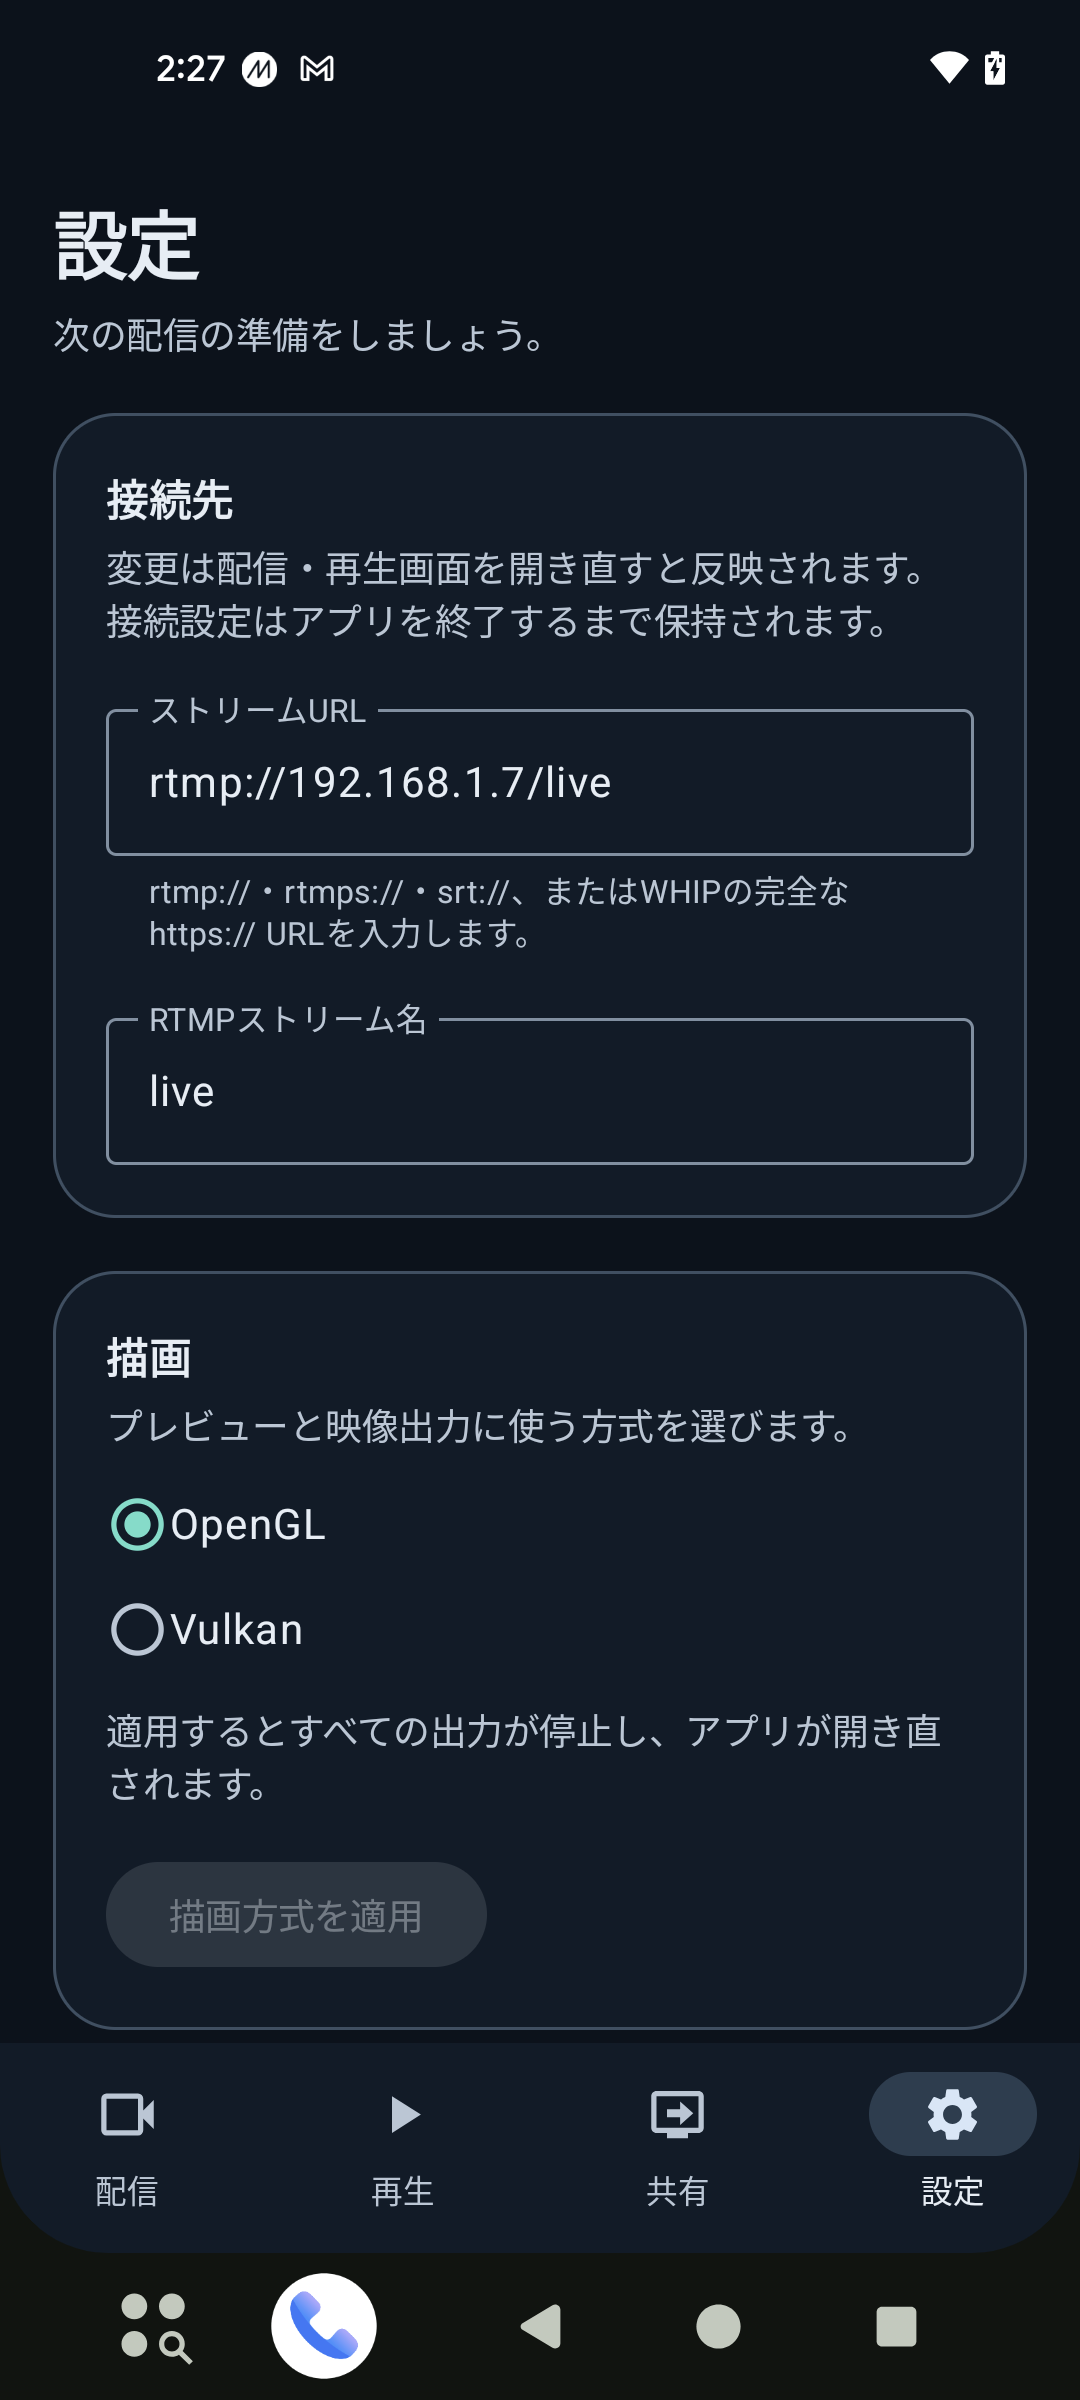
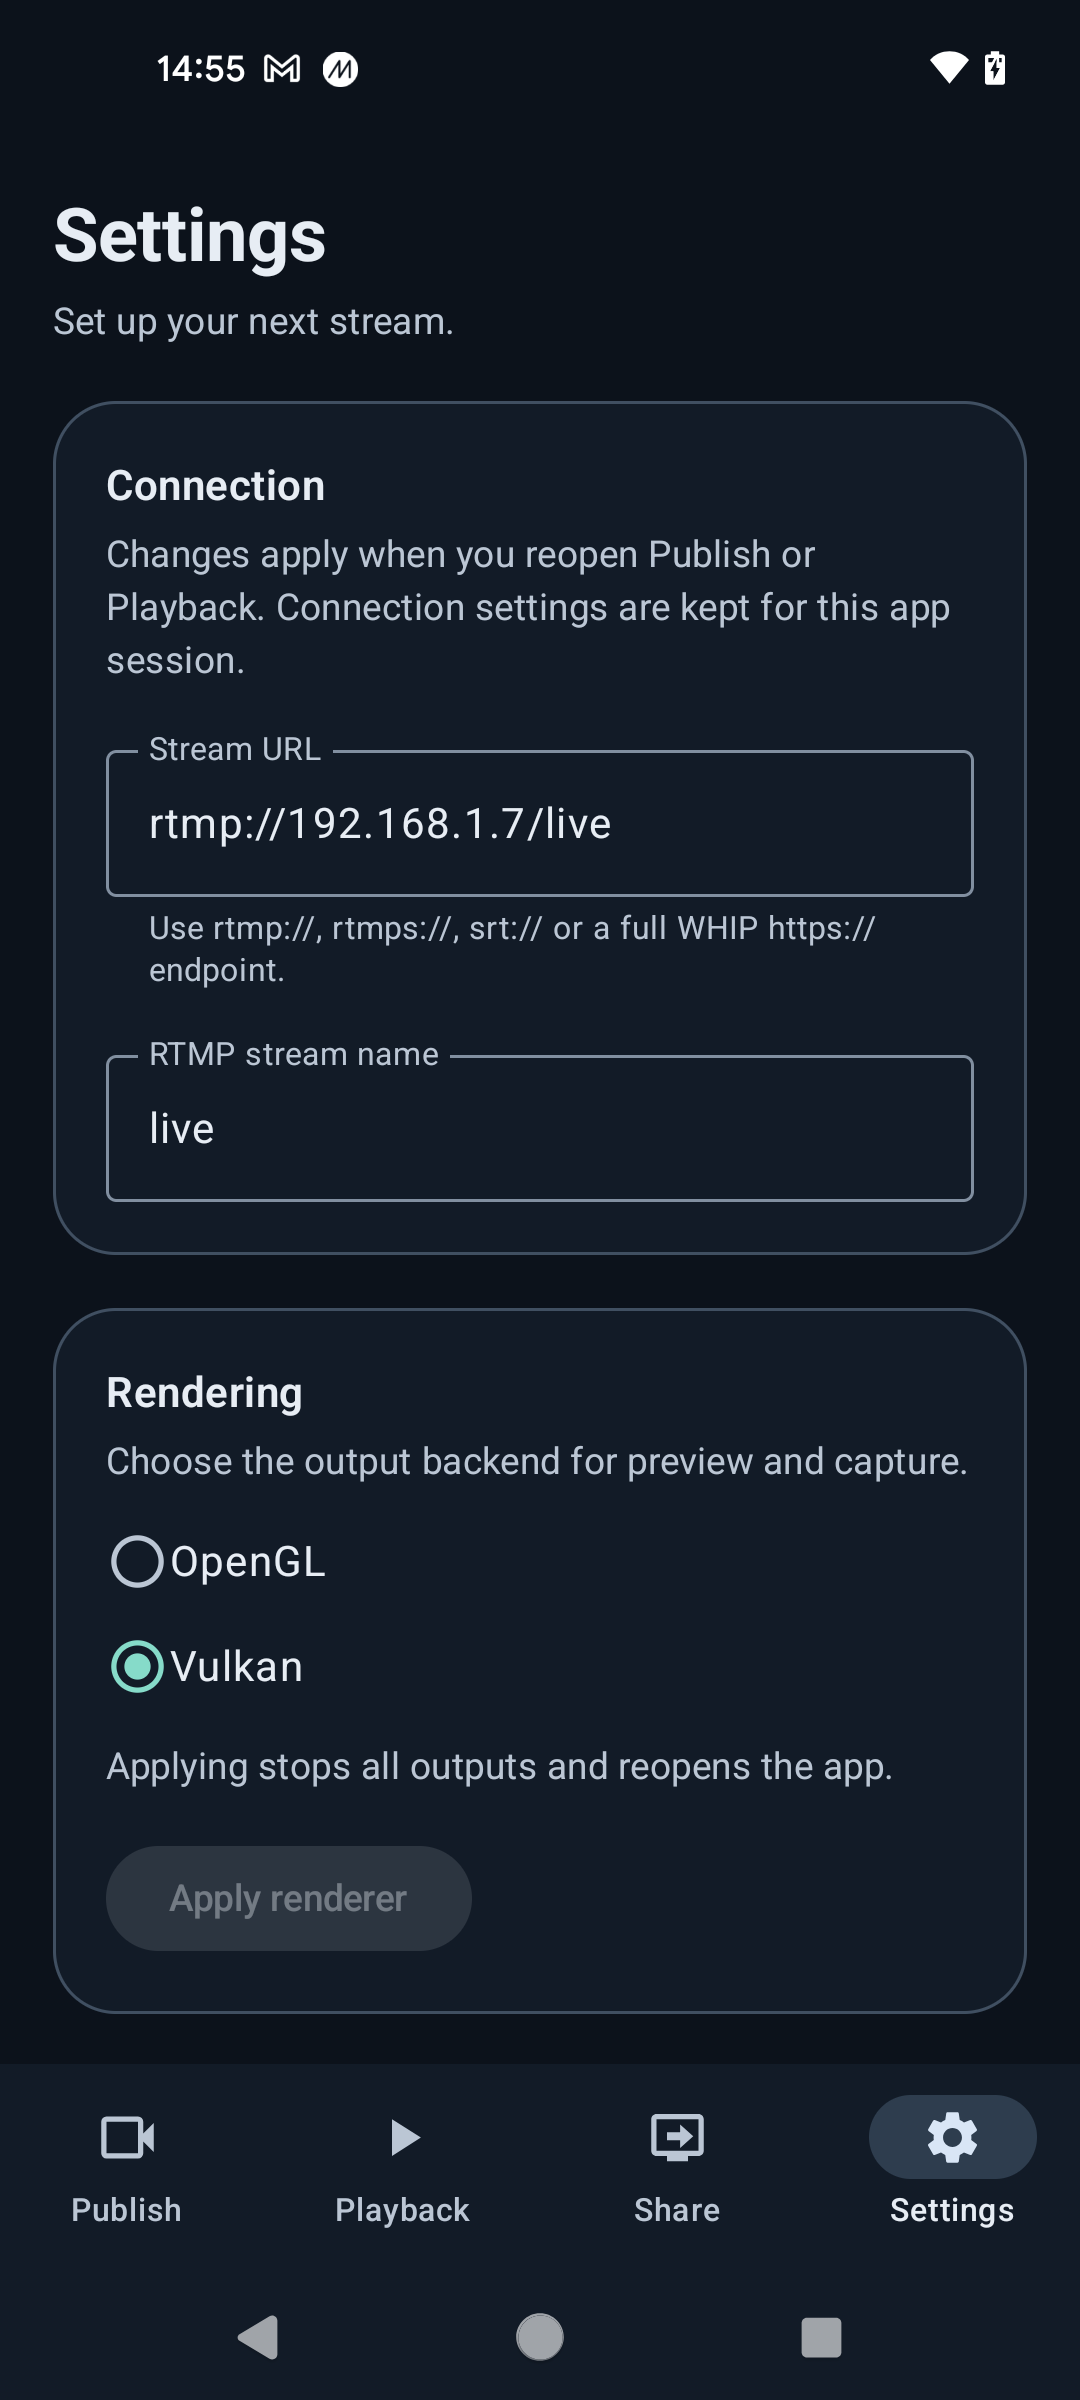
Restore preview filter swipes and show English camera screenshots

diff --git a/app/src/main/java/com/haishinkit/app/CameraScreen.kt b/app/src/main/java/com/haishinkit/app/CameraScreen.kt
@@ -9,12 +9,14 @@ import androidx.compose.foundation.gestures.calculateCentroid
 import androidx.compose.foundation.gestures.calculateZoom
 import androidx.compose.foundation.layout.Arrangement
 import androidx.compose.foundation.layout.Box
+import androidx.compose.foundation.layout.Column
 import androidx.compose.foundation.layout.FlowRow
 import androidx.compose.foundation.layout.fillMaxSize
 import androidx.compose.foundation.layout.padding
 import androidx.compose.foundation.layout.safeDrawingPadding
 import androidx.compose.material3.Button
 import androidx.compose.material3.FilterChip
+import androidx.compose.material3.Surface
 import androidx.compose.material3.Text
 import androidx.compose.material3.TextButton
 import androidx.compose.runtime.Composable
@@ -28,6 +30,7 @@ import androidx.compose.runtime.mutableStateOf
 import androidx.compose.runtime.remember
 import androidx.compose.runtime.rememberCoroutineScope
 import androidx.compose.runtime.setValue
+import androidx.compose.ui.Alignment
 import androidx.compose.ui.Modifier
 import androidx.compose.ui.geometry.Offset
 import androidx.compose.ui.input.pointer.PointerEventType
@@ -54,6 +57,7 @@ import com.haishinkit.rtc.RTCStream
 import com.haishinkit.screen.TextScreenObject
 import com.haishinkit.srt.SrtStream
 import com.haishinkit.stream.StreamSession
+import kotlinx.coroutines.delay
 import kotlinx.coroutines.flow.filterNotNull
 import kotlinx.coroutines.launch
 import java.io.File
@@ -98,6 +102,8 @@ fun CameraScreen(
     }
 
     var selectedEffect by remember { mutableIntStateOf(0) }
+    var filterFeedbackVisible by remember { mutableStateOf(false) }
+    var showFilterHint by remember { mutableStateOf(true) }
 
     val permissions =
         rememberCameraPermissions(
@@ -133,6 +139,10 @@ fun CameraScreen(
     LaunchedEffect(selectedEffect) {
         val item = viewModel.videoEffectItems[selectedEffect]
         viewModel.setVideoEffect(item.videoEffect ?: DefaultVideoEffect.shared)
+        filterFeedbackVisible = true
+        delay(if (showFilterHint) 2500L else 900L)
+        filterFeedbackVisible = false
+        showFilterHint = false
     }
 
     if (!pictureInPicture) {
@@ -173,10 +183,18 @@ fun CameraScreen(
                         down.consume()
                         var isTap = true
                         var isTransforming = false
+                        var endPosition = down.position
+                        var multiplePointers = false
+                        var cancelled = false
                         try {
                             do {
                                 val event = awaitPointerEvent()
-                                if (event.changes.any { it.isConsumed }) break
+                                if (event.changes.any { it.isConsumed }) {
+                                    cancelled = true
+                                    break
+                                }
+                                if (event.changes.size > 1) multiplePointers = true
+                                event.changes.firstOrNull { it.id == down.id }?.let { endPosition = it.position }
                                 if (event.changes.size > 1 ||
                                     event.changes.any { (it.position - down.position).getDistance() > viewConfiguration.touchSlop } ||
                                     event.changes.any { it.uptimeMillis - down.uptimeMillis > viewConfiguration.longPressTimeoutMillis }
@@ -200,6 +218,11 @@ fun CameraScreen(
                             } while (event.changes.any { it.pressed })
                         } finally {
                             controller.end()
+                        }
+                        if (!cancelled && !isTap) {
+                            val step = previewFilterStep(down.position, endPosition, 48.dp.toPx(), hitObject, multiplePointers)
+                            val count = viewModel.videoEffectItems.size
+                            if (step != 0 && count > 1) selectedEffect = (selectedEffect + step + count) % count
                         }
                     }
                 }
@@ -231,6 +254,14 @@ fun CameraScreen(
                 onDelete = { viewModel.removeFocusedScreenObject() },
             )
 
+            if (filterFeedbackVisible) {
+                Surface(modifier = Modifier.align(Alignment.Center), color = PreviewColors.container) {
+                    Column(Modifier.padding(horizontal = 16.dp, vertical = 10.dp), horizontalAlignment = Alignment.CenterHorizontally) {
+                        Text("‹ ${viewModel.videoEffectItems[selectedEffect].name} ›", color = PreviewColors.content)
+                        if (showFilterHint) Text(stringResource(R.string.studio_filter_swipe), color = PreviewColors.content)
+                    }
+                }
+            }
             PublishControls(
                 modifier =
                     Modifier

diff --git a/app/src/test/java/com/haishinkit/app/PreviewFilterSwipeTest.kt b/app/src/test/java/com/haishinkit/app/PreviewFilterSwipeTest.kt
@@ -1,0 +1,23 @@
+package com.haishinkit.app
+
+import androidx.compose.ui.geometry.Offset
+import org.junit.Assert.assertEquals
+import org.junit.Test
+
+class PreviewFilterSwipeTest {
+    @Test fun horizontalBackgroundSwipesChooseNextAndPreviousEffects() {
+        assertEquals(1, previewFilterStep(Offset(200f, 100f), Offset(80f, 110f), 48f, false, false))
+        assertEquals(-1, previewFilterStep(Offset(80f, 100f), Offset(200f, 90f), 48f, false, false))
+    }
+
+    @Test fun objectMovementAndPinchingDoNotChangeEffects() {
+        assertEquals(0, previewFilterStep(Offset.Zero, Offset(120f, 0f), 48f, true, false))
+        assertEquals(0, previewFilterStep(Offset.Zero, Offset(120f, 0f), 48f, false, true))
+    }
+
+    @Test fun tapsSmallMovementAndVerticalDragsDoNotChangeEffects() {
+        assertEquals(0, previewFilterStep(Offset.Zero, Offset.Zero, 48f, false, false))
+        assertEquals(0, previewFilterStep(Offset.Zero, Offset(24f, 0f), 48f, false, false))
+        assertEquals(0, previewFilterStep(Offset.Zero, Offset(60f, 120f), 48f, false, false))
+    }
+}

diff --git a/app/src/main/java/com/haishinkit/app/CameraControllerView.kt b/app/src/main/java/com/haishinkit/app/CameraControllerView.kt
@@ -92,7 +92,7 @@ fun CameraControllerView(
             onClickRecording,
             Modifier.weight(1f),
         ) {
-            Icon(painterResource(if (isRecording) R.drawable.studio_stop else R.drawable.studio_record), contentDescription = null, tint = if (isRecording) MaterialTheme.colorScheme.error else PreviewColors.content)
+            Icon(painterResource(if (isRecording) R.drawable.studio_stop else R.drawable.studio_record), contentDescription = null, tint = PreviewColors.content)
         }
     }
 }
@@ -105,7 +105,7 @@ private fun PublishAction(
     modifier: Modifier = Modifier,
     enabled: Boolean = true,
     primary: Boolean = false,
-    containerColor: Color = PreviewColors.container,
+    containerColor: Color = PreviewColors.control,
     contentColor: Color = PreviewColors.content,
     icon: @Composable () -> Unit,
 ) {

diff --git a/app/src/main/java/com/haishinkit/app/PreviewFilterSwipe.kt b/app/src/main/java/com/haishinkit/app/PreviewFilterSwipe.kt
@@ -1,0 +1,18 @@
+package com.haishinkit.app
+
+import androidx.compose.ui.geometry.Offset
+import kotlin.math.abs
+
+/** Background swipes only: never reinterpret object transforms or vertical/pinch gestures. */
+internal fun previewFilterStep(
+    start: Offset,
+    end: Offset,
+    minimumDistance: Float,
+    objectSelected: Boolean,
+    multiplePointers: Boolean,
+): Int {
+    if (objectSelected || multiplePointers) return 0
+    val delta = end - start
+    if (abs(delta.x) < minimumDistance || abs(delta.x) < abs(delta.y) * 1.5f) return 0
+    return if (delta.x < 0f) 1 else -1
+}

diff --git a/app/src/main/java/com/haishinkit/app/StudioTheme.kt b/app/src/main/java/com/haishinkit/app/StudioTheme.kt
@@ -51,5 +51,6 @@ internal fun StudioTheme(content: @Composable () -> Unit) {
 /** Independent of the scene brightness: white controls stay legible over live video. */
 internal object PreviewColors {
     val container = Color.Black.copy(alpha = 0.78f)
+    val control = Color.Black.copy(alpha = 0.5f)
     val content = Color.White
 }

diff --git a/app/design/studio.md b/app/design/studio.md
@@ -25,7 +25,7 @@ Actual network publication requires a reachable streaming endpoint.
 ## Verification
 
 - App Kotlin compilation and ktlint checks passed.
-- 29 app unit tests passed.
+- 32 app unit tests passed, including background filter-swipe direction and exclusion rules.
 - Six Compose tests passed on a Pixel 5a: settings/authentication retention,
   navigation/back selection, invalid-URL recovery, primary actions in short windows,
   and 2x text.
@@ -35,8 +35,12 @@ Actual network publication requires a reachable streaming endpoint.
 - Device APKs reuse the unchanged native libraries from the existing local debug
   APK. Kotlin/UI and resources were rebuilt against current main. A clean native
   build and live stream publication were not part of this UI verification.
-- Captured screenshots show Settings and Share in Japanese; no live camera image
-  or credentials are included in the committed images.
+- Captured screenshots show publishing with a live camera preview, Settings and Share
+  in English, as requested. No credentials are included.
 
 Android lint and ktlint passed. Measured text contrasts range from 7.24:1
 (stop action) to 14.71:1 (body text), above the 4.5:1 normal-text threshold.
+
+Background horizontal swipes cycle filters; object transforms, pinches and vertical
+drags keep their existing meaning. Snapshot/recording controls use translucent
+backgrounds, and a short filter-name hint provides feedback after each swipe.

diff --git a/app/README.md b/app/README.md
@@ -11,18 +11,19 @@ libraries retain their API 23 minimum.
 
 ## 🎨 Screens
 
-Settings and screen sharing in the sample app, shown in Japanese on a Pixel 5a:
+Publishing, settings and screen sharing in the sample app, shown in English on a Pixel 5a:
 
 <p>
-  <img src="design/screenshots/settings.png" width="240" alt="Settings screen in Japanese on a Pixel 5a">
-  <img src="design/screenshots/share.png" width="240" alt="Screen sharing screen in Japanese on a Pixel 5a">
+  <img src="design/screenshots/publish.png" width="240" alt="Publishing screen with a live camera preview in English on a Pixel 5a">
+  <img src="design/screenshots/settings.png" width="240" alt="Settings screen in English on a Pixel 5a">
+  <img src="design/screenshots/share.png" width="240" alt="Screen sharing screen in English on a Pixel 5a">
 </p>
 
 ## 🛠 Build and run
 
 
 The interface uses a navy-and-teal studio theme with English and Japanese labels.
-Camera tools open in a bottom sheet; phones use bottom navigation and wider windows use
+Swipe the preview background left or right to change filters. Camera tools open in a bottom sheet; phones use bottom navigation and wider windows use
 a navigation rail. The launcher icon matches the Swift sample.
 
 Open the repository in Android Studio and run the `app` configuration on a device.

diff --git a/README.md b/README.md
@@ -81,11 +81,12 @@ published version.
 
 ## 🐾 Examples
 
-Settings and screen sharing in the Android sample (Japanese, Pixel 5a):
+Publishing, settings and screen sharing in the Android sample (English, Pixel 5a):
 
 <p>
-  <img src="app/design/screenshots/settings.png" width="240" alt="Android sample settings screen in Japanese on a Pixel 5a">
-  <img src="app/design/screenshots/share.png" width="240" alt="Android sample screen-sharing screen in Japanese on a Pixel 5a">
+  <img src="app/design/screenshots/publish.png" width="240" alt="Android sample publishing screen with a live camera preview in English on a Pixel 5a">
+  <img src="app/design/screenshots/settings.png" width="240" alt="Android sample settings screen in English on a Pixel 5a">
+  <img src="app/design/screenshots/share.png" width="240" alt="Android sample screen-sharing screen in English on a Pixel 5a">
 </p>
 
 The [Android sample app](app/README.md) demonstrates camera publishing, playback,
